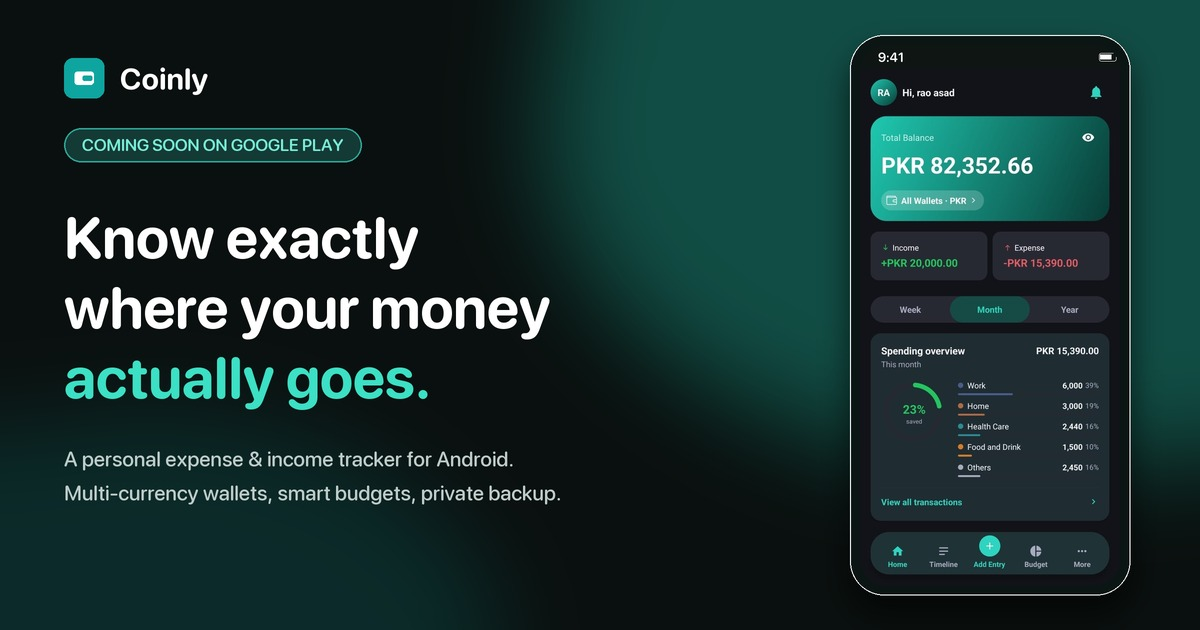
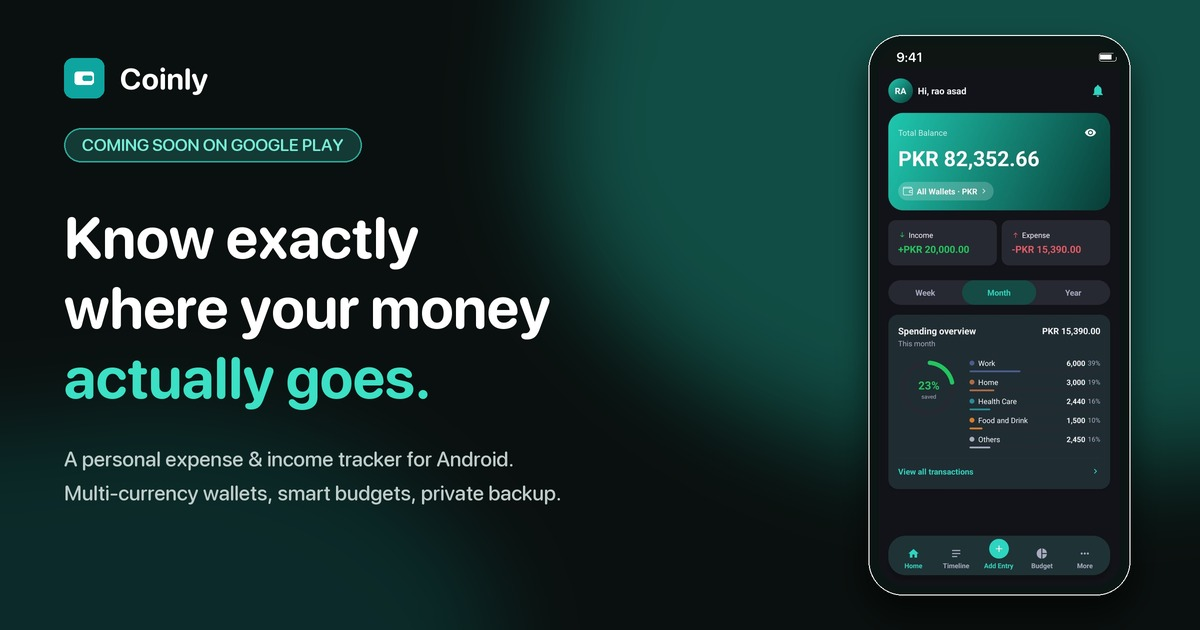
Strip phone mockups down to just the screenshot, small radius, nothing else
Remove the dark bezel frame, fake status bar overlay, and forced
cover-cropping from every screenshot on the site. Every screen now
renders as the original image with only its real status bar cropped
and a small corner radius - matching the desired look exactly, and
giving every mockup a naturally consistent height since all the
screenshots share the same real device aspect ratio.

Changed region(s): [[0.7092, 0.0603, 0.925, 0.9349]]

diff --git a/index.html b/index.html
@@ -135,14 +135,6 @@
       <div class="glow"></div>
       <div class="phone-frame">
         <div class="phone-screen">
-          <div class="fake-statusbar">
-            <span>9:41</span>
-            <span class="status-icons">
-              <svg viewBox="0 0 20 14"><use href="#i-signal"/></svg>
-              <svg viewBox="0 0 24 18"><use href="#i-wifi"/></svg>
-              <svg viewBox="0 0 26 13"><use href="#i-battery"/></svg>
-            </span>
-          </div>
           <div class="shot">
             <img src="assets/screenshots/home.jpg" alt="Coinly Home dashboard showing total balance, income/expense breakdown, and top spending categories" loading="eager">
           </div>
@@ -209,14 +201,6 @@
           <div class="mini-phone-group">
             <div class="mini-phone">
               <div class="mini-screen">
-                <div class="fake-statusbar">
-                  <span>9:41</span>
-                  <span class="status-icons">
-                    <svg viewBox="0 0 20 14"><use href="#i-signal"/></svg>
-                    <svg viewBox="0 0 24 18"><use href="#i-wifi"/></svg>
-                    <svg viewBox="0 0 26 13"><use href="#i-battery"/></svg>
-                  </span>
-                </div>
                 <div class="shot">
                   <img src="assets/screenshots/wallets.jpg" alt="Coinly Manage Wallets screen showing a PKR wallet and a USD wallet, each with a daily spend-rate projection" loading="lazy">
                 </div>
@@ -227,14 +211,6 @@
           <div class="mini-phone-group">
             <div class="mini-phone">
               <div class="mini-screen">
-                <div class="fake-statusbar">
-                  <span>9:41</span>
-                  <span class="status-icons">
-                    <svg viewBox="0 0 20 14"><use href="#i-signal"/></svg>
-                    <svg viewBox="0 0 24 18"><use href="#i-wifi"/></svg>
-                    <svg viewBox="0 0 26 13"><use href="#i-battery"/></svg>
-                  </span>
-                </div>
                 <div class="shot">
                   <img src="assets/screenshots/currency.jpg" alt="Coinly Currency screen showing the Base Currency picker and a live exchange rate list" loading="lazy">
                 </div>
@@ -260,14 +236,6 @@
         <div class="feature-visual">
           <div class="mini-phone">
             <div class="mini-screen">
-              <div class="fake-statusbar">
-                <span>9:41</span>
-                <span class="status-icons">
-                  <svg viewBox="0 0 20 14"><use href="#i-signal"/></svg>
-                  <svg viewBox="0 0 24 18"><use href="#i-wifi"/></svg>
-                  <svg viewBox="0 0 26 13"><use href="#i-battery"/></svg>
-                </span>
-              </div>
               <div class="shot">
                 <img src="assets/screenshots/categories.jpg" alt="Coinly Manage Categories screen showing colorful expense categories with icons" loading="lazy">
               </div>
@@ -293,14 +261,6 @@
           <div class="mini-phone-group">
             <div class="mini-phone">
               <div class="mini-screen">
-                <div class="fake-statusbar">
-                  <span>9:41</span>
-                  <span class="status-icons">
-                    <svg viewBox="0 0 20 14"><use href="#i-signal"/></svg>
-                    <svg viewBox="0 0 24 18"><use href="#i-wifi"/></svg>
-                    <svg viewBox="0 0 26 13"><use href="#i-battery"/></svg>
-                  </span>
-                </div>
                 <div class="shot">
                   <img src="assets/screenshots/add-budget.jpg" alt="Coinly Add Budget screen showing weekly/monthly toggle, budget amount, and category selection" loading="lazy">
                 </div>
@@ -311,14 +271,6 @@
           <div class="mini-phone-group">
             <div class="mini-phone">
               <div class="mini-screen">
-                <div class="fake-statusbar">
-                  <span>9:41</span>
-                  <span class="status-icons">
-                    <svg viewBox="0 0 20 14"><use href="#i-signal"/></svg>
-                    <svg viewBox="0 0 24 18"><use href="#i-wifi"/></svg>
-                    <svg viewBox="0 0 26 13"><use href="#i-battery"/></svg>
-                  </span>
-                </div>
                 <div class="shot">
                   <img src="assets/screenshots/budget.jpg" alt="Coinly Budget screen showing a Monthly Budget expanded with its per-category breakdown" loading="lazy">
                 </div>
@@ -345,14 +297,6 @@
         <div class="feature-visual">
           <div class="mini-phone">
             <div class="mini-screen">
-              <div class="fake-statusbar">
-                <span>9:41</span>
-                <span class="status-icons">
-                  <svg viewBox="0 0 20 14"><use href="#i-signal"/></svg>
-                  <svg viewBox="0 0 24 18"><use href="#i-wifi"/></svg>
-                  <svg viewBox="0 0 26 13"><use href="#i-battery"/></svg>
-                </span>
-              </div>
               <div class="shot">
                 <img src="assets/screenshots/timeline.jpg" alt="Coinly Timeline screen showing transactions grouped by day with running totals" loading="lazy">
               </div>
@@ -378,14 +322,6 @@
         <div class="feature-visual">
           <div class="mini-phone">
             <div class="mini-screen">
-              <div class="fake-statusbar">
-                <span>9:41</span>
-                <span class="status-icons">
-                  <svg viewBox="0 0 20 14"><use href="#i-signal"/></svg>
-                  <svg viewBox="0 0 24 18"><use href="#i-wifi"/></svg>
-                  <svg viewBox="0 0 26 13"><use href="#i-battery"/></svg>
-                </span>
-              </div>
               <div class="shot">
                 <img src="assets/screenshots/add-transaction.jpg" alt="Coinly Add Transaction screen showing recent category chips and a live monthly budget hint" loading="lazy">
               </div>

diff --git a/css/style.css b/css/style.css
@@ -236,49 +236,10 @@ img { max-width: 100%; display: block; }
   transform: translate(-50%, -50%);
   z-index: 0;
 }
-.phone-frame {
-  position: relative;
-  z-index: 1;
-  width: 280px;
-  background: #0B1614;
-  border: 1px solid rgba(255,255,255,0.08);
-  border-radius: 42px;
-  padding: 12px;
-  box-shadow: 0 30px 60px -20px rgba(0, 0, 0, 0.55), 0 0 0 8px rgba(255,255,255,0.02) inset;
-}
-.phone-screen {
-  width: 100%;
-  border-radius: 32px;
-  overflow: hidden;
-  position: relative;
-  background: #000;
-  display: flex;
-  flex-direction: column;
-}
-
-/* Dummy status bar - the real one (carrier/wifi/battery %) is cropped out of
-   the screenshot itself; this fills that space with a clean, generic one so
-   rounded top corners never clip real on-screen content. */
-.fake-statusbar {
-  flex-shrink: 0;
-  display: flex;
-  align-items: center;
-  justify-content: space-between;
-  background: var(--device-bg);
-  color: var(--device-text);
-  font-weight: 700;
-  font-variant-numeric: tabular-nums;
-}
-.phone-screen .fake-statusbar { height: 34px; padding: 0 18px; font-size: 0.78rem; }
-.mini-screen .fake-statusbar { height: 26px; padding: 0 14px; font-size: 0.62rem; }
-.fake-statusbar .status-icons { display: flex; align-items: center; gap: 5px; }
-.fake-statusbar .status-icons svg { display: block; }
-.phone-screen .fake-statusbar .status-icons svg { height: 11px; width: auto; }
-.mini-screen .fake-statusbar .status-icons svg { height: 8px; width: auto; }
-
-/* No forced aspect-ratio or object-fit cropping here - each screenshot keeps
-   its own real proportions in full, including the bottom nav bar, so the
-   container's height is simply whatever the image needs. */
+/* Just the real screenshot, status bar already cropped out of the image
+   itself, with a small corner radius. No bezel, no fake chrome. */
+.phone-frame { position: relative; width: 280px; }
+.phone-screen { border-radius: 14px; overflow: hidden; display: block; }
 .shot { width: 100%; }
 .shot img { width: 100%; height: auto; display: block; }
 
@@ -357,22 +318,8 @@ img { max-width: 100%; display: block; }
 }
 
 .feature-visual { display: flex; justify-content: center; }
-.mini-phone {
-  width: 230px;
-  border-radius: 34px;
-  padding: 10px;
-  background: #171f1c;
-  border: 1px solid rgba(255,255,255,0.16);
-  box-shadow: 0 24px 50px -20px rgba(0, 0, 0, 0.45);
-}
-.mini-screen {
-  border-radius: 26px;
-  overflow: hidden;
-  position: relative;
-  background: #000;
-  display: flex;
-  flex-direction: column;
-}
+.mini-phone { width: 230px; }
+.mini-screen { border-radius: 14px; overflow: hidden; display: block; }
 
 .feature-visual.dual { flex-wrap: wrap; gap: 26px; }
 .mini-phone-group { display: flex; flex-direction: column; align-items: center; gap: 12px; }
